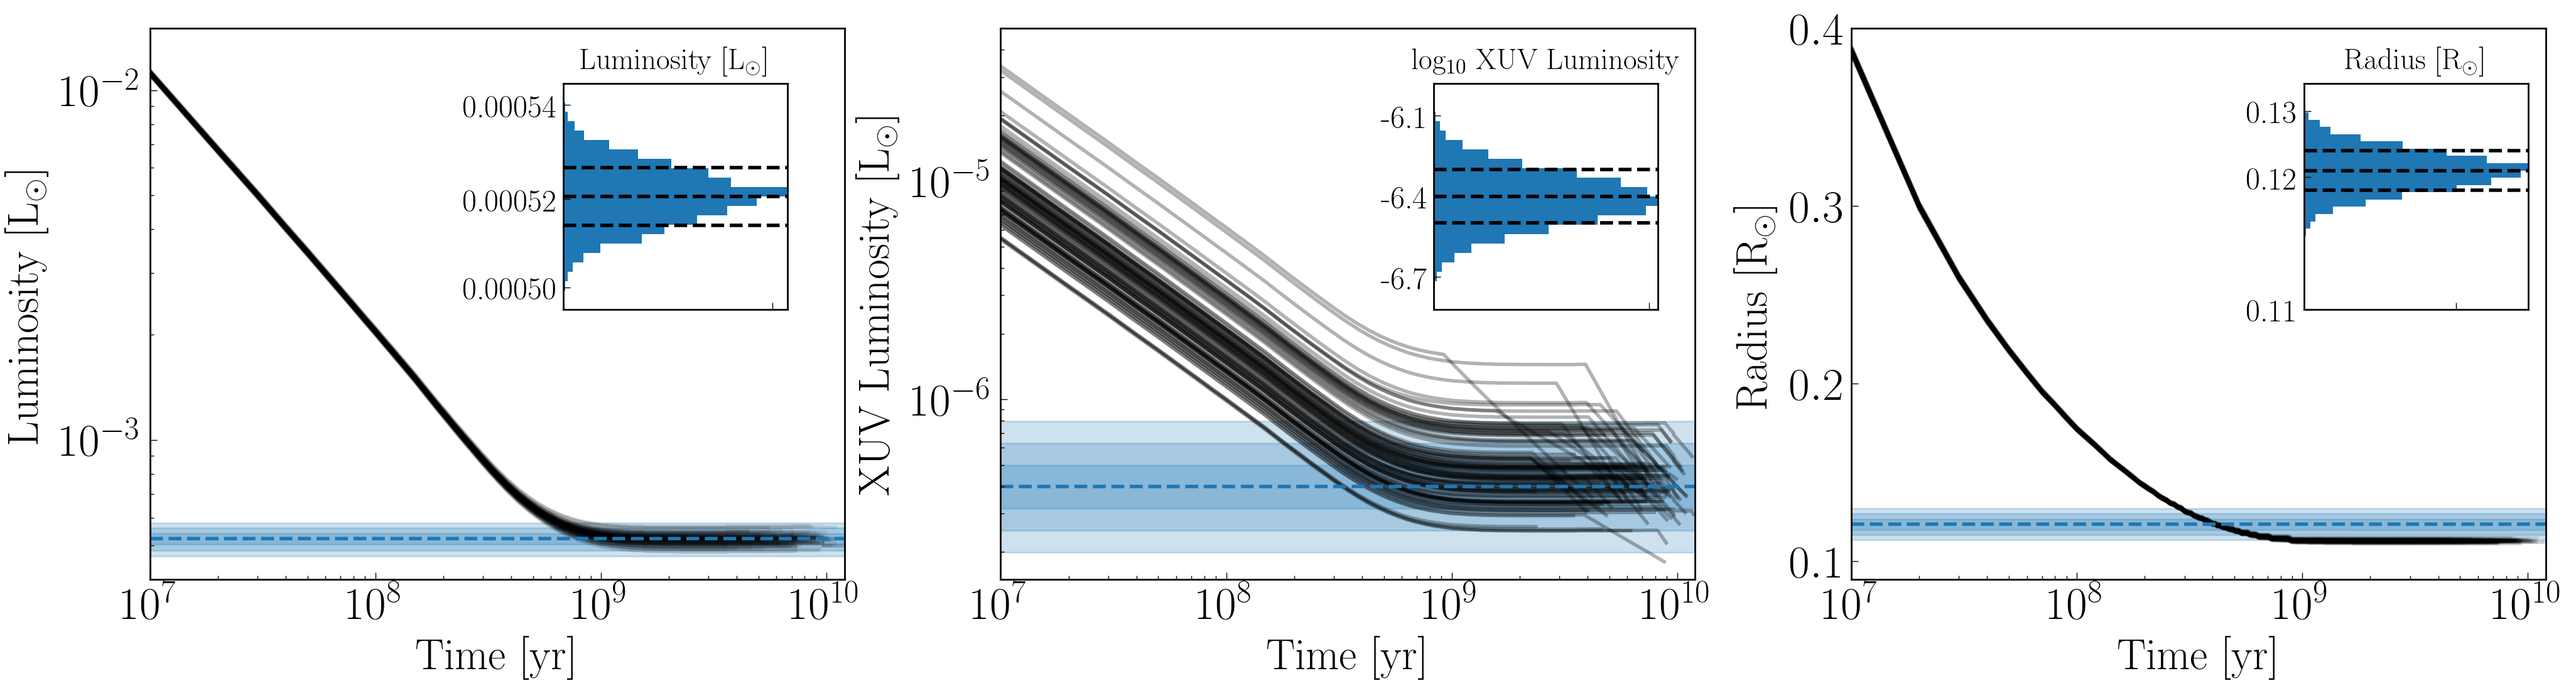
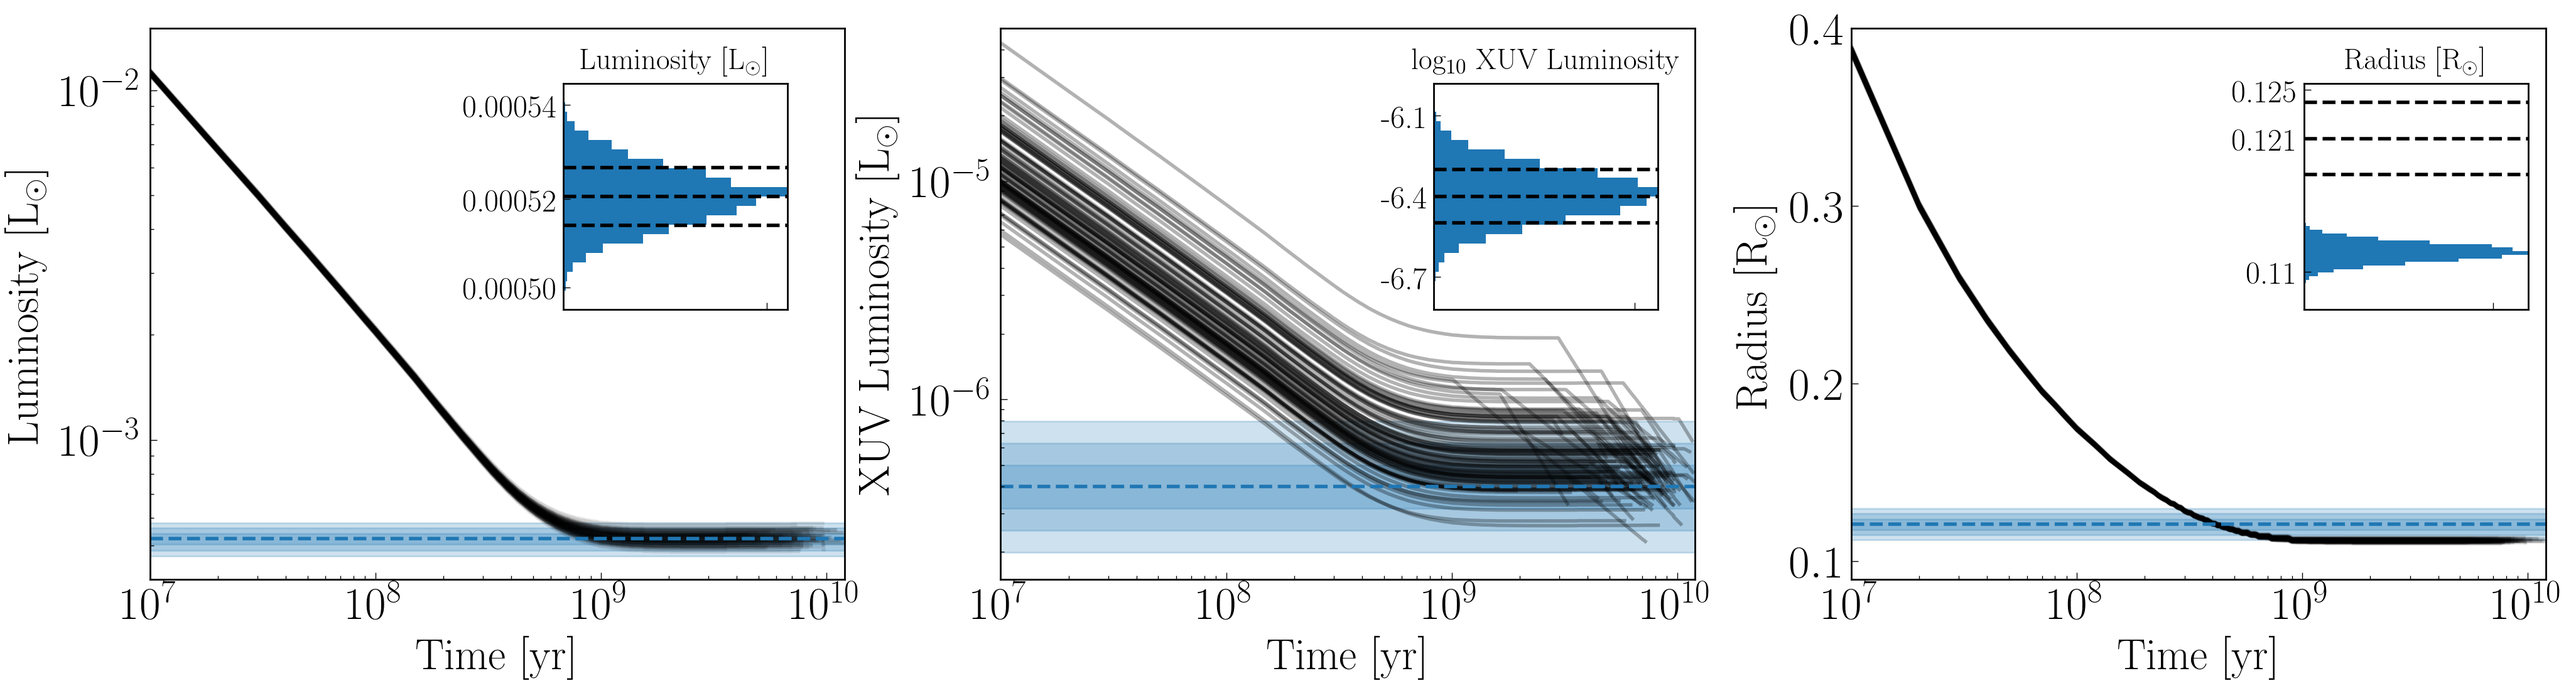
updating plotting scripts

diff --git a/Analysis/Evol/plotEvolTrappist1.py b/Analysis/Evol/plotEvolTrappist1.py
@@ -25,7 +25,7 @@ mpl.rc('text', usetex=True)
 data = np.load("../../Data/trappist1StarEvol.npz")
 nsamples = len(data["Luminosity"])
 
-chains, blobs = mcmcUtils.extractMCMCResults("../../Data/trappist1.h5",
+chains, blobs = mcmcUtils.extractMCMCResults("../../Data/trappist1Fiducial.h5",
                                              verbose=True, applyBurnin=True,
                                              thinChains=True, blobsExist=True)
 
@@ -125,27 +125,23 @@ axes[2].set_xlabel("Time [yr]", fontsize=25)
 axes[2].set_xscale("log")
 axes[2].set_ylim(0.09, 0.40)
 
-radTrappist1 = 0.121              # Van Grootel et al. (2018) [Rsun]
-radTrappist1Sig = 0.003
-
 # Radius inset
-rads = np.random.normal(loc=t1.radTrappist1, scale=t1.radTrappist1Sig, size=10000)
-axLXUV = fig.add_axes([0.885, 0.55, 0.085, 0.3])
-axLXUV.hist(rads, bins=20, orientation="horizontal", range=[0.11, 0.132], color="C0");
-axLXUV.axhline(0.118, lw=2, ls="--", color="k")
-axLXUV.axhline(0.121, lw=2, ls="--", color="k")
-axLXUV.axhline(0.124, lw=2, ls="--", color="k")
+axRad = fig.add_axes([0.885, 0.55, 0.085, 0.3])
+axRad.hist(blobs[:,2], bins=20, orientation="horizontal", color="C0");
+axRad.axhline(0.118, lw=2, ls="--", color="k")
+axRad.axhline(0.121, lw=2, ls="--", color="k")
+axRad.axhline(0.124, lw=2, ls="--", color="k")
 
 # Format inset
-axLXUV.set_xlabel("")
-axLXUV.set_ylabel("")
-axLXUV.set_title(r"Radius [R$_{\odot}$]", fontsize=17)
+axRad.set_xlabel("")
+axRad.set_ylabel("")
+axRad.set_title(r"Radius [R$_{\odot}$]", fontsize=17)
 
-y2 = [0.1, 0.12, 0.13]
-y2_labels = ["0.11", "0.12", "0.13"]
-axLXUV.set_yticks(y2)
-axLXUV.set_yticklabels(y2_labels, minor=False, fontsize=18)
-axLXUV.set_xticklabels([])
+y2 = [0.11, 0.121, 0.125]
+y2_labels = ["0.11", "0.121", "0.125"]
+axRad.set_yticks(y2)
+axRad.set_yticklabels(y2_labels, minor=False, fontsize=18)
+axRad.set_xticklabels([])
 
 fig.tight_layout()
 plt.subplots_adjust(wspace=0.225)

diff --git a/Scripts/runEvolTrappist1Star.py b/Scripts/runEvolTrappist1Star.py
@@ -17,9 +17,9 @@ from trappist import trappist1, mcmcUtils
 nsamples = 100
 
 # RNG seed
-seed = 90
+seed = 91
 np.random.seed(seed)
-dataDir = "../Data/trappist1.h5"
+dataDir = "../Data/trappist1Fiducial.h5"
 
 # Options
 kwargs = trappist1.kwargsTRAPPIST1

diff --git a/Analysis/Approx/plotCornerTrappist1Approx.py b/Analysis/Approx/plotCornerTrappist1Approx.py
@@ -25,7 +25,7 @@ mpl.rc('font',**{'family':'serif'})
 mpl.rc('text', usetex=True)
 
 # Path to data
-filename = "../../Data/apRun9.h5"
+filename = "../../Data/apRun5.h5"
 
 # Whether or not to plot blobs
 plotBlobs = False
